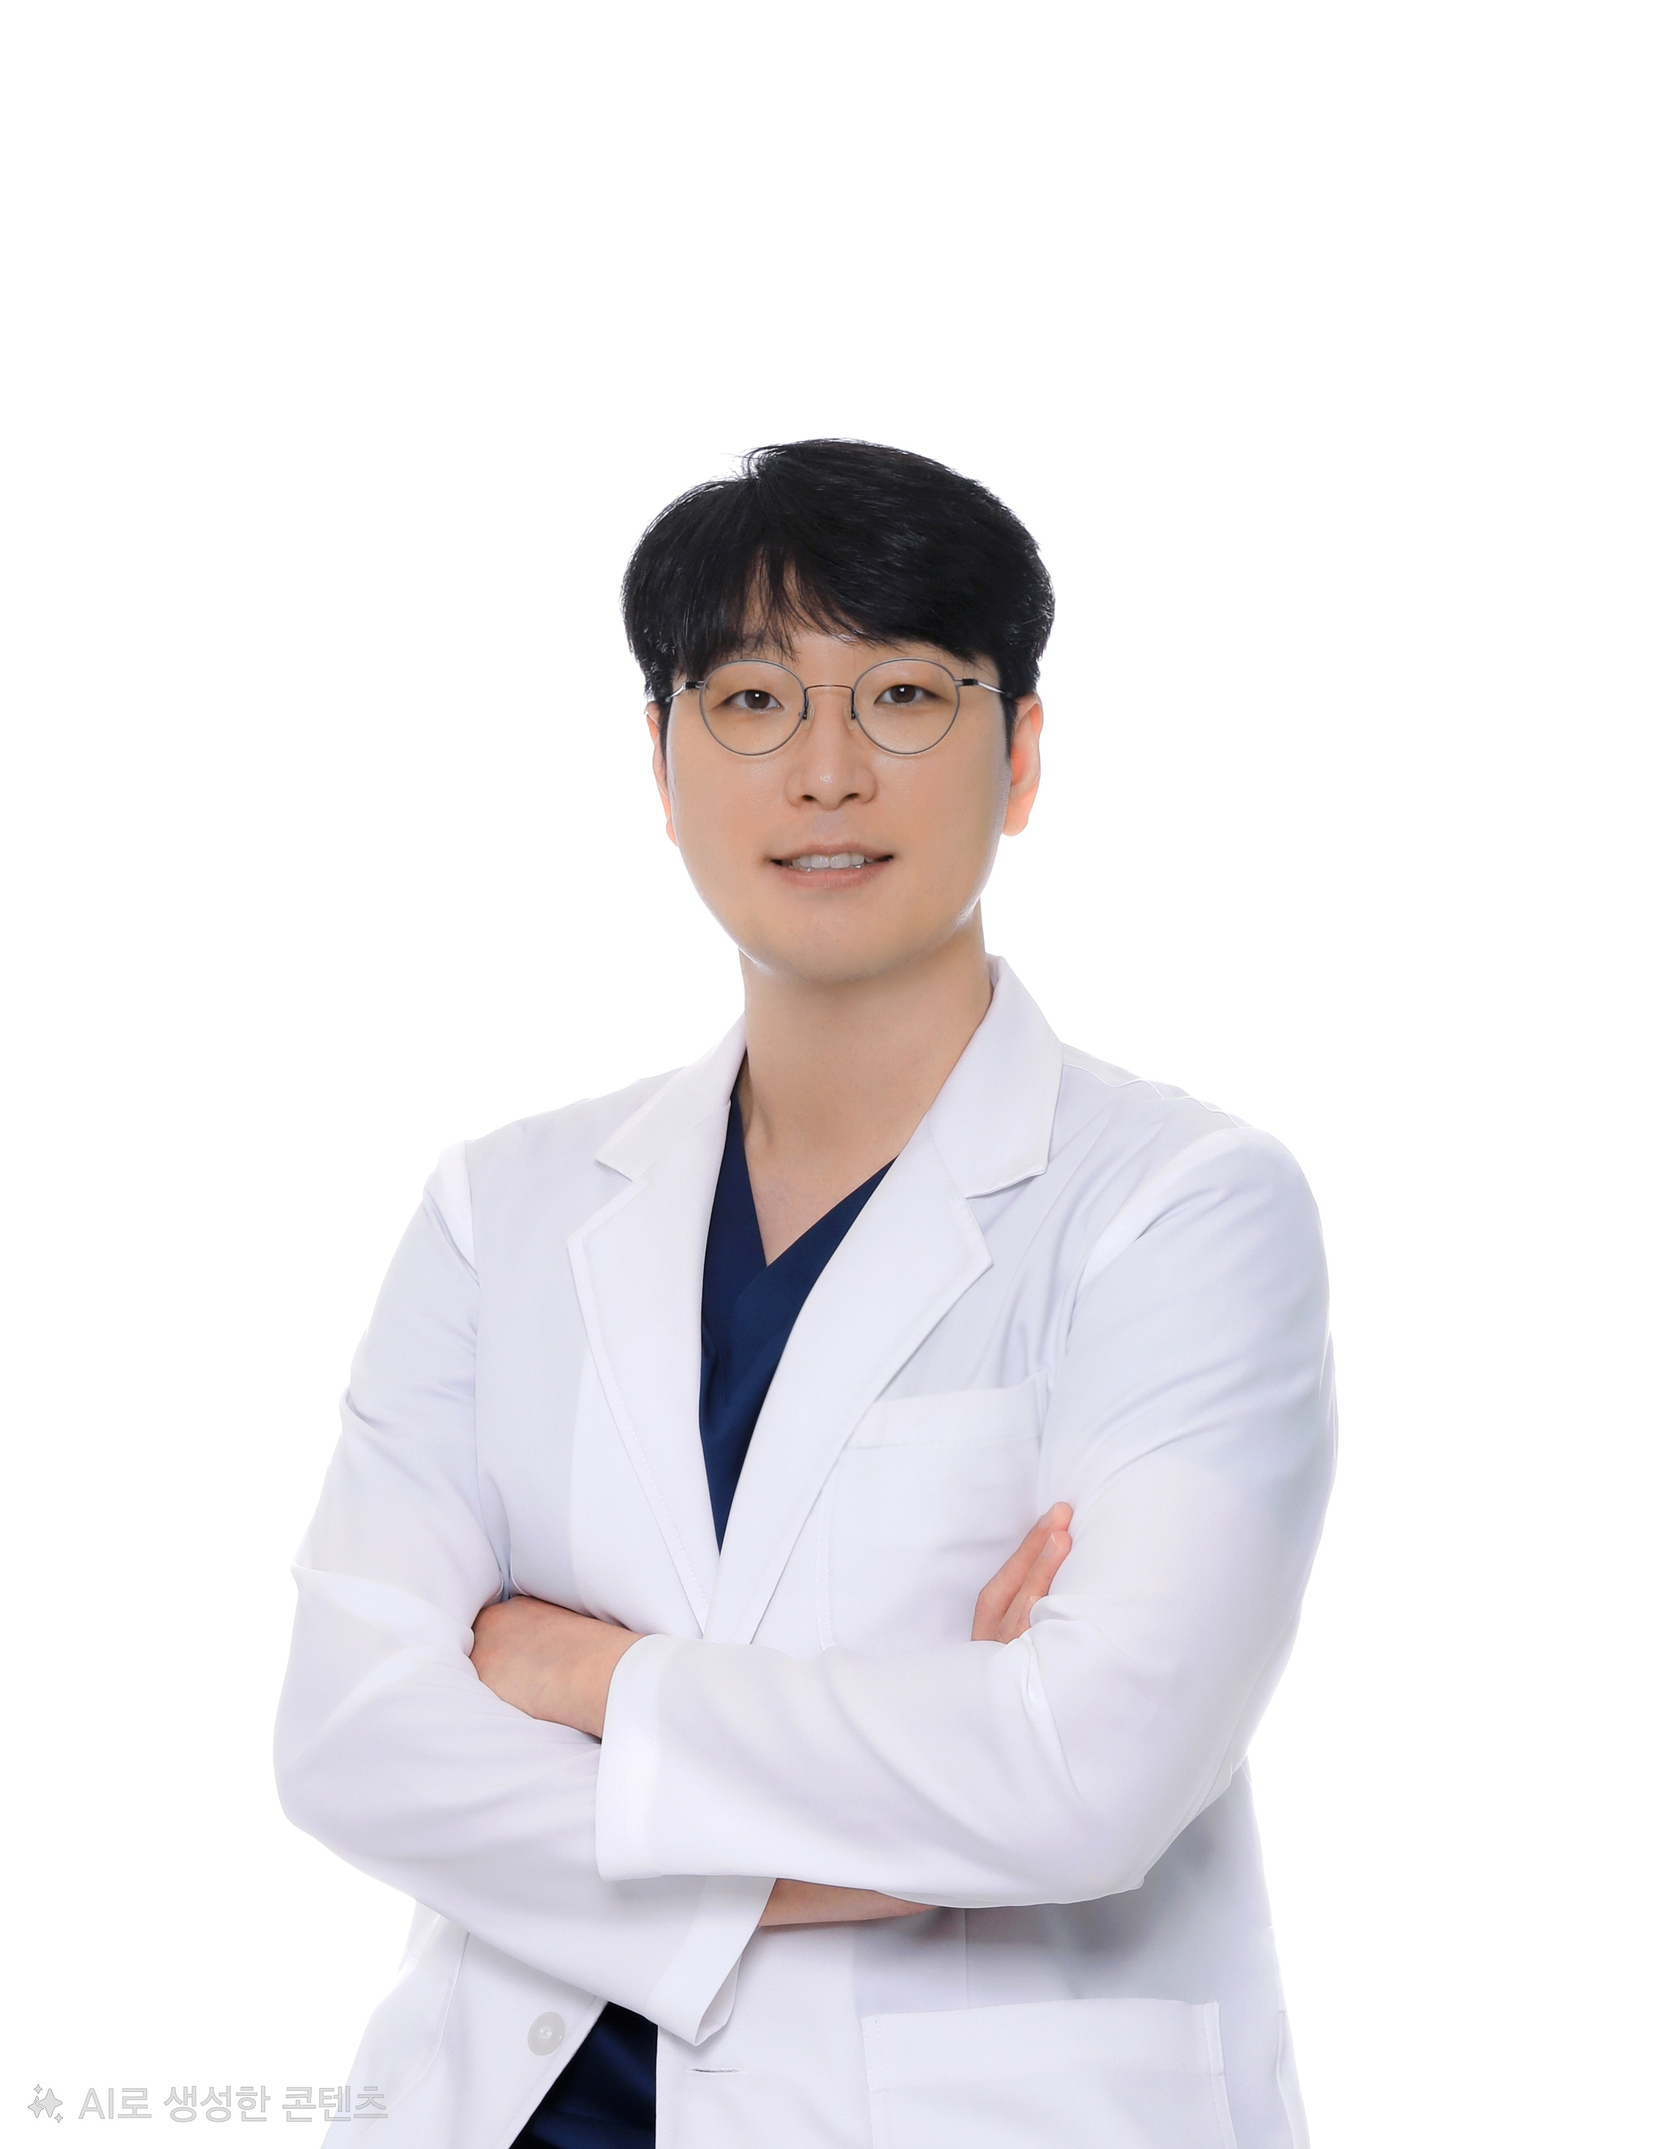
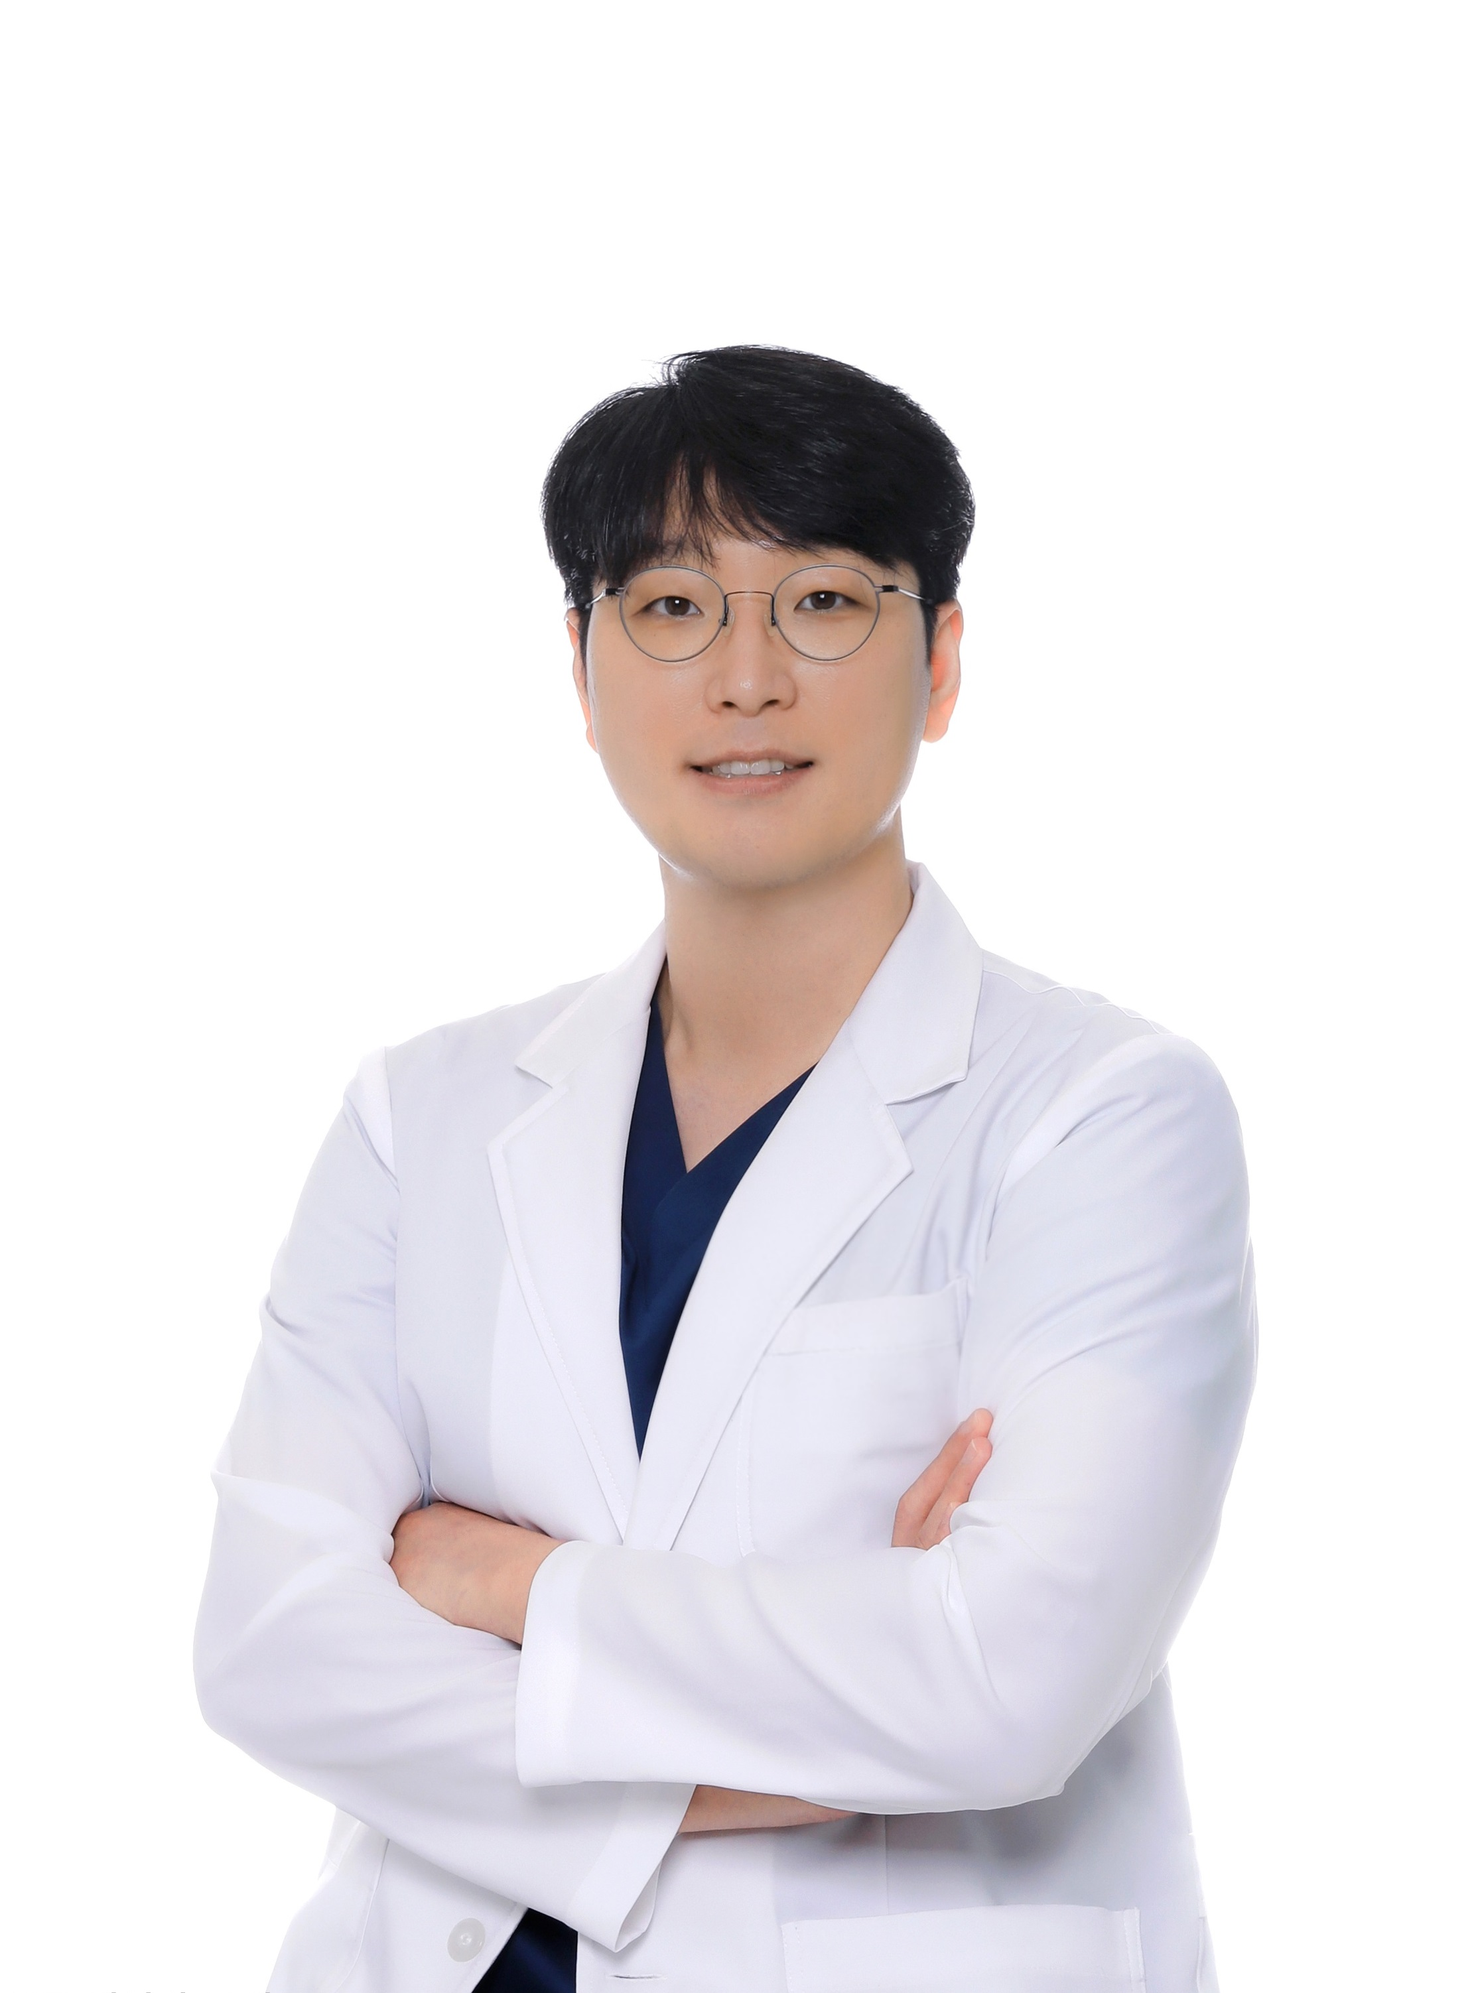
모바일 레이아웃수정

diff --git a/src/components/Header.jsx b/src/components/Header.jsx
@@ -1,7 +1,26 @@
+import React, { useState } from 'react';
 import { Link } from 'react-router-dom';
-import { FaHospitalSymbol } from 'react-icons/fa';
+import { FaHospitalSymbol, FaBars, FaTimes } from 'react-icons/fa';
 
 const Header = () => {
+  const [isMobileMenuOpen, setIsMobileMenuOpen] = useState(false);
+  const [activeAccordion, setActiveAccordion] = useState(null);
+
+  const closeMenu = () => {
+    setIsMobileMenuOpen(false);
+    setActiveAccordion(null);
+  };
+
+  const handleMenuClick = (e, index, hasDropdown) => {
+    if (window.innerWidth <= 768 && hasDropdown) {
+      e.preventDefault();
+      e.stopPropagation();
+      setActiveAccordion(activeAccordion === index ? null : index);
+    } else if (!hasDropdown) {
+      closeMenu();
+    }
+  };
+
   return (
     <header className="header">
       <div className="container">
@@ -23,48 +42,71 @@ const Header = () => {
             }}
           />
         </Link>
+
+        <button 
+          className="mobile-menu-btn" 
+          onClick={() => setIsMobileMenuOpen(!isMobileMenuOpen)}
+        >
+          {isMobileMenuOpen ? <FaTimes /> : <FaBars />}
+        </button>
+
+        {isMobileMenuOpen && (
+          <div 
+            className="mobile-overlay" 
+            onClick={() => setIsMobileMenuOpen(false)}
+          ></div>
+        )}
+
         <nav>
-          <ul className="gnb">
+          <ul className={`gnb ${isMobileMenuOpen ? 'open' : ''}`}>
             <li className="gnb-item">
-              <Link to="/about" className="gnb-link">병원소개</Link>
-              <ul className="dropdown">
-                <li className="dropdown-item"><Link to="/about#greeting">대표원장 인사말</Link></li>
-                <li className="dropdown-item"><Link to="/about#doctors">의료진 소개</Link></li>
-                <li className="dropdown-item"><Link to="/about#location">진료시간 | 오시는길</Link></li>
-                <li className="dropdown-item"><Link to="/about#equipments">보유장비</Link></li>
-                <li className="dropdown-item"><Link to="/about#tour">병원 둘러보기</Link></li>
-                <li className="dropdown-item"><Link to="/about#notice">공지사항</Link></li>
+              <Link to="/about" className="gnb-link" onClick={(e) => handleMenuClick(e, 0, true)}>
+                병원소개 <span className="mobile-chevron">{activeAccordion === 0 ? '▲' : '▼'}</span>
+              </Link>
+              <ul className={`dropdown ${activeAccordion === 0 ? 'active' : ''}`}>
+                <li className="dropdown-item"><Link to="/about#greeting" onClick={closeMenu}>대표원장 인사말</Link></li>
+                <li className="dropdown-item"><Link to="/about#doctors" onClick={closeMenu}>의료진 소개</Link></li>
+                <li className="dropdown-item"><Link to="/about#location" onClick={closeMenu}>진료시간 | 오시는길</Link></li>
+                <li className="dropdown-item"><Link to="/about#equipments" onClick={closeMenu}>보유장비</Link></li>
+                <li className="dropdown-item"><Link to="/about#tour" onClick={closeMenu}>병원 둘러보기</Link></li>
+                <li className="dropdown-item"><Link to="/about#notice" onClick={closeMenu}>공지사항</Link></li>
               </ul>
             </li>
             <li className="gnb-item">
-              <Link to="/spine-joint/neck" className="gnb-link">척추·관절 클리닉</Link>
-              <ul className="dropdown">
-                <li className="dropdown-item"><Link to="/spine-joint/neck">목 통증</Link></li>
-                <li className="dropdown-item"><Link to="/spine-joint/back">허리·골반 통증</Link></li>
-                <li className="dropdown-item"><Link to="/spine-joint/shoulder">어깨 통증</Link></li>
-                <li className="dropdown-item"><Link to="/spine-joint/knee">무릎 통증</Link></li>
-                <li className="dropdown-item"><Link to="/spine-joint/upper-limb">상지 통증</Link></li>
-                <li className="dropdown-item"><Link to="/spine-joint/foot-ankle">발·발목 통증</Link></li>
+              <Link to="/spine-joint/neck" className="gnb-link" onClick={(e) => handleMenuClick(e, 1, true)}>
+                척추·관절 클리닉 <span className="mobile-chevron">{activeAccordion === 1 ? '▲' : '▼'}</span>
+              </Link>
+              <ul className={`dropdown ${activeAccordion === 1 ? 'active' : ''}`}>
+                <li className="dropdown-item"><Link to="/spine-joint/neck" onClick={closeMenu}>목 통증</Link></li>
+                <li className="dropdown-item"><Link to="/spine-joint/back" onClick={closeMenu}>허리·골반 통증</Link></li>
+                <li className="dropdown-item"><Link to="/spine-joint/shoulder" onClick={closeMenu}>어깨 통증</Link></li>
+                <li className="dropdown-item"><Link to="/spine-joint/knee" onClick={closeMenu}>무릎 통증</Link></li>
+                <li className="dropdown-item"><Link to="/spine-joint/upper-limb" onClick={closeMenu}>상지 통증</Link></li>
+                <li className="dropdown-item"><Link to="/spine-joint/foot-ankle" onClick={closeMenu}>발·발목 통증</Link></li>
               </ul>
             </li>
             <li className="gnb-item">
-              <Link to="/pain-clinic" className="gnb-link">비수술 통증 클리닉</Link>
-              <ul className="dropdown">
-                <li className="dropdown-item"><Link to="/pain-clinic#c-arm">C-ARM 정밀통증주사</Link></li>
-                <li className="dropdown-item"><Link to="/pain-clinic#dna">조직 재생 주사치료</Link></li>
-                <li className="dropdown-item"><Link to="/pain-clinic#eswt">체외충격파치료</Link></li>
-                <li className="dropdown-item"><Link to="/pain-clinic#manual">맞춤형 도수치료</Link></li>
+              <Link to="/pain-clinic" className="gnb-link" onClick={(e) => handleMenuClick(e, 2, true)}>
+                비수술 통증 클리닉 <span className="mobile-chevron">{activeAccordion === 2 ? '▲' : '▼'}</span>
+              </Link>
+              <ul className={`dropdown ${activeAccordion === 2 ? 'active' : ''}`}>
+                <li className="dropdown-item"><Link to="/pain-clinic#c-arm" onClick={closeMenu}>C-ARM 정밀통증주사</Link></li>
+                <li className="dropdown-item"><Link to="/pain-clinic#dna" onClick={closeMenu}>조직 재생 주사치료</Link></li>
+                <li className="dropdown-item"><Link to="/pain-clinic#eswt" onClick={closeMenu}>체외충격파치료</Link></li>
+                <li className="dropdown-item"><Link to="/pain-clinic#manual" onClick={closeMenu}>맞춤형 도수치료</Link></li>
               </ul>
             </li>
             <li className="gnb-item">
-              <Link to="/rehab-iv" className="gnb-link">재활·수액 클리닉</Link>
-              <ul className="dropdown">
-                <li className="dropdown-item"><Link to="/rehab-iv#rehab">재활치료</Link></li>
-                <li className="dropdown-item"><Link to="/rehab-iv#iv">맞춤형 영양수액 클리닉</Link></li>
+              <Link to="/rehab-iv" className="gnb-link" onClick={(e) => handleMenuClick(e, 3, true)}>
+                재활·수액 클리닉 <span className="mobile-chevron">{activeAccordion === 3 ? '▲' : '▼'}</span>
+              </Link>
+              <ul className={`dropdown ${activeAccordion === 3 ? 'active' : ''}`}>
+                <li className="dropdown-item"><Link to="/rehab-iv#rehab" onClick={closeMenu}>재활치료</Link></li>
+                <li className="dropdown-item"><Link to="/rehab-iv#iv" onClick={closeMenu}>맞춤형 영양수액 클리닉</Link></li>
               </ul>
             </li>
             <li className="gnb-item">
-              <Link to="/reviews" className="gnb-link">치료후기</Link>
+              <Link to="/reviews" className="gnb-link" onClick={(e) => handleMenuClick(e, 4, false)}>치료후기</Link>
             </li>
           </ul>
         </nav>

diff --git a/src/index.css b/src/index.css
@@ -38,6 +38,12 @@ ul, ol {
   list-style: none;
 }
 
+img {
+  max-width: 100%;
+  height: auto;
+  object-fit: contain;
+}
+
 /* Layout */
 .app-container {
   display: flex;
@@ -334,4 +340,156 @@ ul, ol {
   padding-top: 20px;
   border-top: 1px solid var(--color-border);
   color: var(--color-text-light);
+}
+
+/* Responsive Grid Utilities */
+.grid-2 {
+  display: grid;
+  grid-template-columns: 1fr 1fr;
+  gap: 20px;
+}
+
+.grid-3 {
+  display: grid;
+  grid-template-columns: 1fr 1fr 1fr;
+  gap: 20px;
+}
+
+/* Mobile Header / Hamburger Menu Styles */
+.mobile-menu-btn {
+  display: none;
+  background: none;
+  border: none;
+  font-size: 1.5rem;
+  color: var(--color-text-main);
+  cursor: pointer;
+}
+
+.mobile-chevron {
+  display: none;
+}
+
+@media (max-width: 768px) {
+  /* Layout */
+  .grid-2, .grid-3 {
+    grid-template-columns: 1fr;
+  }
+  
+  .section {
+    padding: 60px 0;
+  }
+  
+  .section-title {
+    font-size: 1.8rem;
+    margin-bottom: 1.5rem;
+  }
+  
+  .section-subtitle {
+    margin-bottom: 2rem;
+  }
+  
+  /* Header & GNB */
+  .mobile-menu-btn {
+    display: block;
+  }
+
+  .mobile-overlay {
+    position: fixed;
+    top: 80px;
+    left: 0;
+    width: 100vw;
+    height: calc(100vh - 80px);
+    background-color: rgba(0,0,0,0.5);
+    z-index: 999;
+  }
+  
+  .gnb {
+    position: fixed;
+    top: 80px;
+    right: -100%;
+    width: 80%;
+    max-width: 320px;
+    height: calc(100vh - 80px);
+    background: var(--color-white);
+    flex-direction: column;
+    gap: 0;
+    transition: right 0.3s ease-in-out;
+    display: flex;
+    overflow-y: auto;
+    box-shadow: -5px 0 15px rgba(0,0,0,0.1);
+    z-index: 1000;
+  }
+  
+  .gnb.open {
+    right: 0;
+  }
+  
+  .gnb-item {
+    height: auto;
+    flex-direction: column;
+    align-items: flex-start;
+    border-bottom: 1px solid var(--color-border);
+    width: 100%;
+  }
+  
+  .gnb-item:last-child {
+    border-bottom: none;
+  }
+  
+  .gnb-link {
+    display: block;
+    width: 100%;
+    padding: 20px 24px;
+    font-size: 1.2rem;
+    font-weight: 700;
+  }
+  
+  .mobile-chevron {
+    display: inline;
+    float: right;
+    font-size: 0.9rem;
+    color: var(--color-teal);
+  }
+
+  /* Override PC hover behavior on mobile */
+  .gnb-item:hover .dropdown {
+    transform: none;
+  }
+  .gnb-item:hover .dropdown:not(.active) {
+    opacity: 0;
+    visibility: hidden;
+    display: none;
+  }
+
+  .dropdown {
+    position: static;
+    transform: none;
+    box-shadow: none;
+    border: none;
+    background: #f0f7f7; /* Slight teal tint for contrast */
+    border-radius: 0;
+    padding: 0;
+    width: 100%;
+    opacity: 0;
+    visibility: hidden;
+    display: none;
+    border-top: 1px solid var(--color-border);
+  }
+  
+  .dropdown.active {
+    display: block;
+    opacity: 1;
+    visibility: visible;
+  }
+  
+  .dropdown-item a {
+    text-align: left;
+    padding: 16px 40px;
+    font-size: 1.1rem;
+    border-bottom: 1px solid var(--color-border);
+  }
+  
+  .dropdown-item:last-child a {
+    border-bottom: none;
+  }
 }

diff --git a/src/pages/Home.jsx b/src/pages/Home.jsx
@@ -26,7 +26,7 @@ const Home = () => {
       {/* Quick Links / Main Clinics */}
       <section className="section section-bg-gray" style={{ padding: '60px 0' }}>
         <div className="container">
-          <div className="grid-3" style={{ display: 'grid', gridTemplateColumns: 'repeat(auto-fit, minmax(300px, 1fr))', gap: '30px' }}>
+          <div className="grid-3" style={{ gap: '30px' }}>
             <Link to="/spine-joint/neck" className="quick-link-card">
               <img src="/icon/chiropractic.png" alt="척추·관절클리닉" className="icon-img" />
               <h3>척추·관절 클리닉</h3>
@@ -65,7 +65,7 @@ const Home = () => {
             <p style={{ color: '#666', fontSize: '1.1rem' }}>율하재활의학과만의 특별한 맞춤 치료 시스템</p>
           </div>
           
-          <div style={{ display: 'grid', gridTemplateColumns: '1fr 1fr', gap: '20px' }}>
+          <div className="grid-2">
             <div className="treatment-card" style={{ background: '#f8f9fa', padding: '40px', borderRadius: '15px', display: 'flex', alignItems: 'center', gap: '20px' }}>
               <div style={{ width: '80px', height: '80px', background: '#fff', borderRadius: '50%', display: 'flex', alignItems: 'center', justifyContent: 'center', flexShrink: 0, boxShadow: '0 4px 10px rgba(0,0,0,0.05)', border: '1px solid #eee' }}>
                 <img src="/icon/injection.png" alt="C-ARM 정밀통증주사" style={{ width: '40px' }} />
@@ -91,7 +91,7 @@ const Home = () => {
       {/* Notice & Review Summary */}
       <section className="section section-bg-gray">
         <div className="container">
-          <div style={{ display: 'grid', gridTemplateColumns: '1fr 1fr', gap: '40px' }}>
+          <div className="grid-2" style={{ gap: '40px' }}>
             <div style={{ background: '#fff', padding: '30px', borderRadius: '15px' }}>
               <div style={{ display: 'flex', justifyContent: 'space-between', alignItems: 'center', marginBottom: '20px' }}>
                 <h3 style={{ fontSize: '1.4rem' }}>공지사항</h3>

diff --git a/src/components/Footer.jsx b/src/components/Footer.jsx
@@ -8,7 +8,7 @@ const Footer = () => {
     <>
       <footer className="footer">
         <div className="container">
-          <div className="footer-content" style={{ display: 'grid', gridTemplateColumns: '1fr 1fr 1fr', gap: '40px' }}>
+          <div className="footer-content grid-3" style={{ gap: '40px' }}>
             <div className="footer-left">
               <div className="footer-logo">율하재활의학과의원</div>
               <p>바른 움직임이 다시 시작되는 곳, 율하재활의학과가 든든한 동행자가 되어드리겠습니다.</p>

diff --git a/src/pages/Home.css b/src/pages/Home.css
@@ -229,3 +229,30 @@
   background: var(--color-white);
   padding: 15px;
 }
+
+@media (max-width: 768px) {
+  .location-grid, .gallery-grid {
+    grid-template-columns: 1fr;
+  }
+  
+  .staff-card {
+    flex-direction: column;
+    gap: 20px;
+  }
+  
+  .staff-image {
+    min-width: 100%;
+  }
+  
+  .staff-info {
+    padding: 20px;
+  }
+  
+  .hero-title {
+    font-size: 2.2rem;
+  }
+  
+  .hero-logo {
+    font-size: 2.8rem;
+  }
+}
